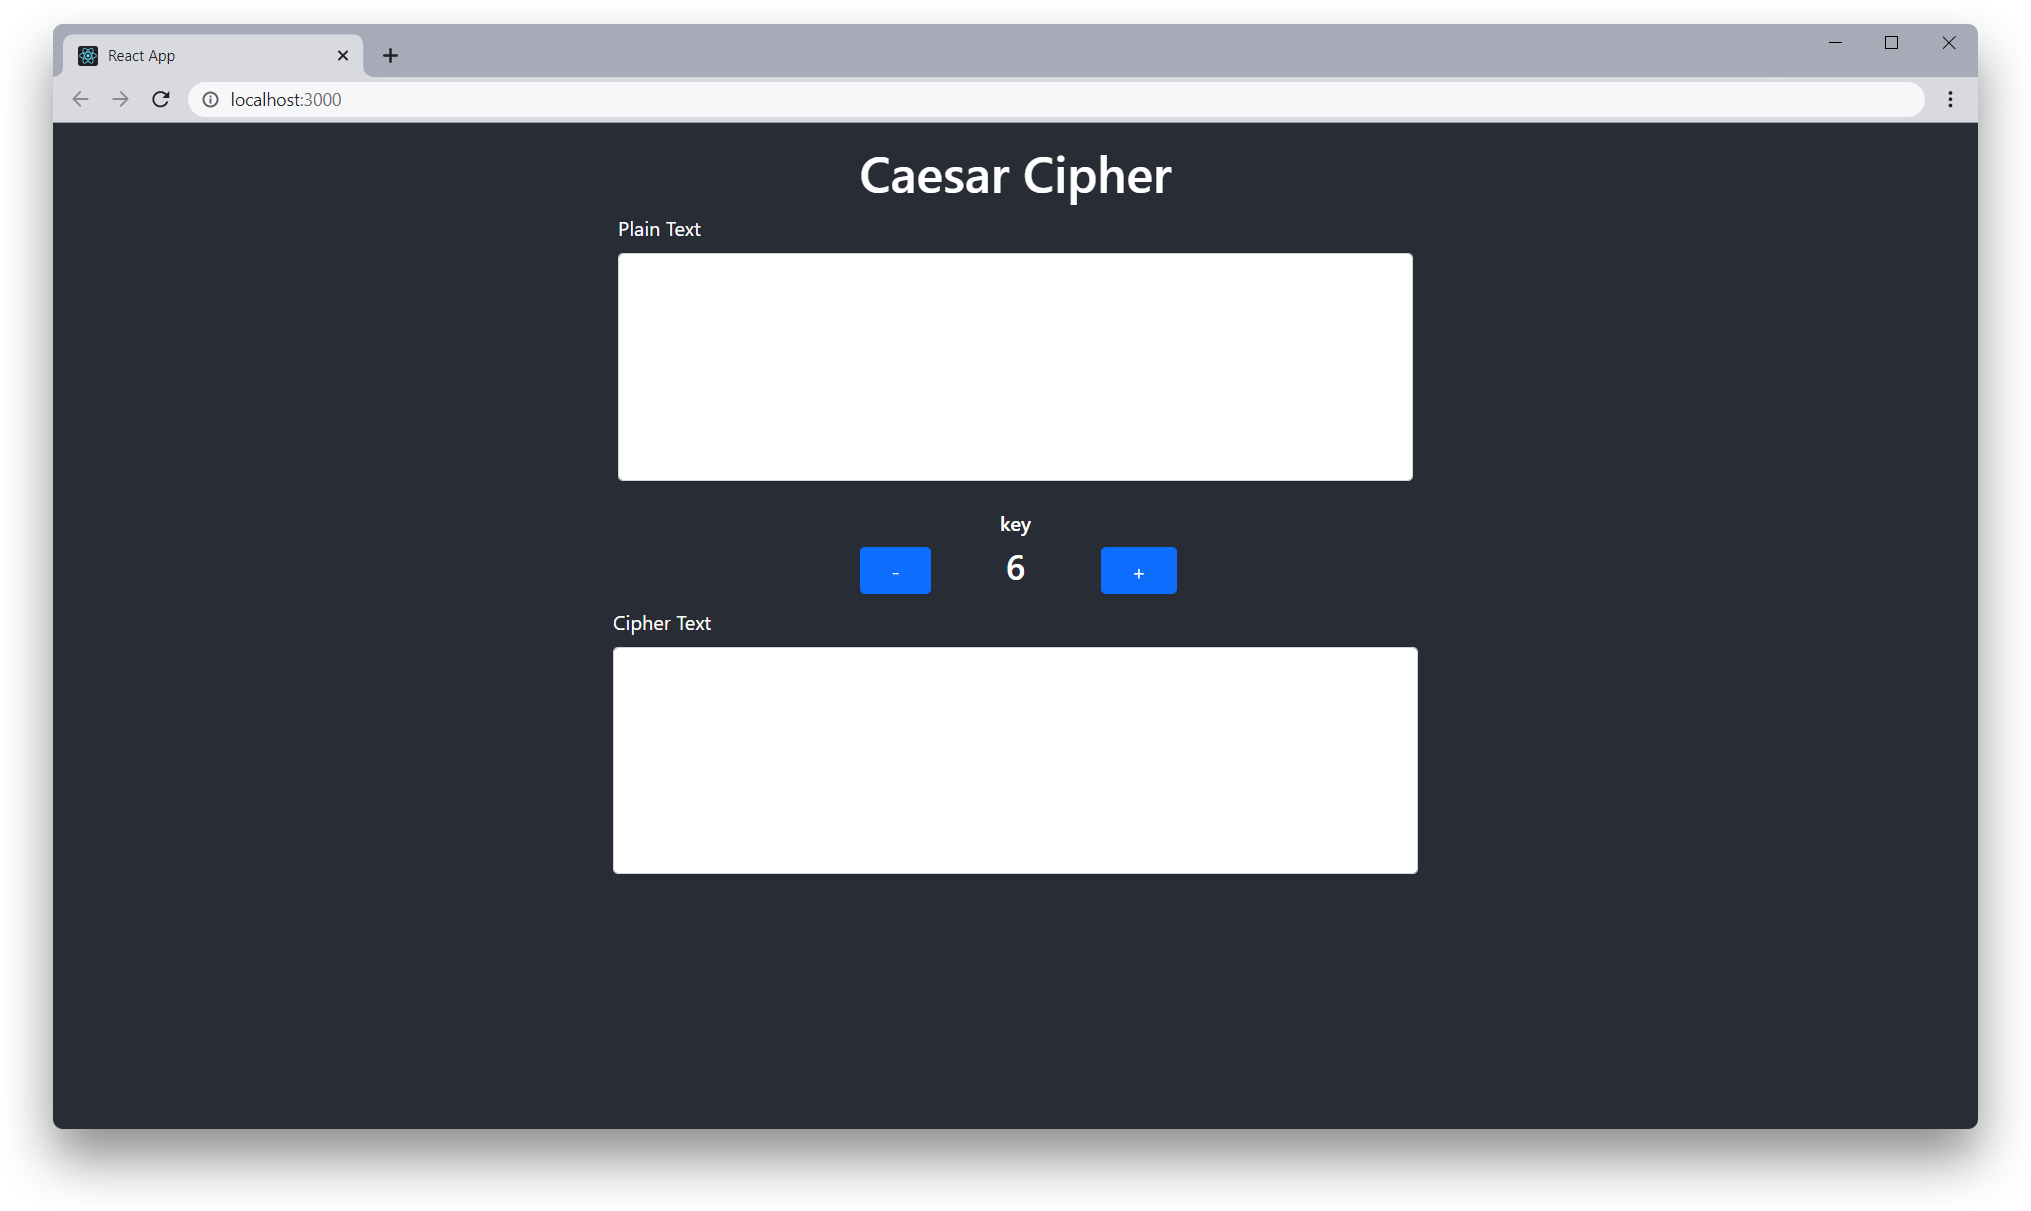
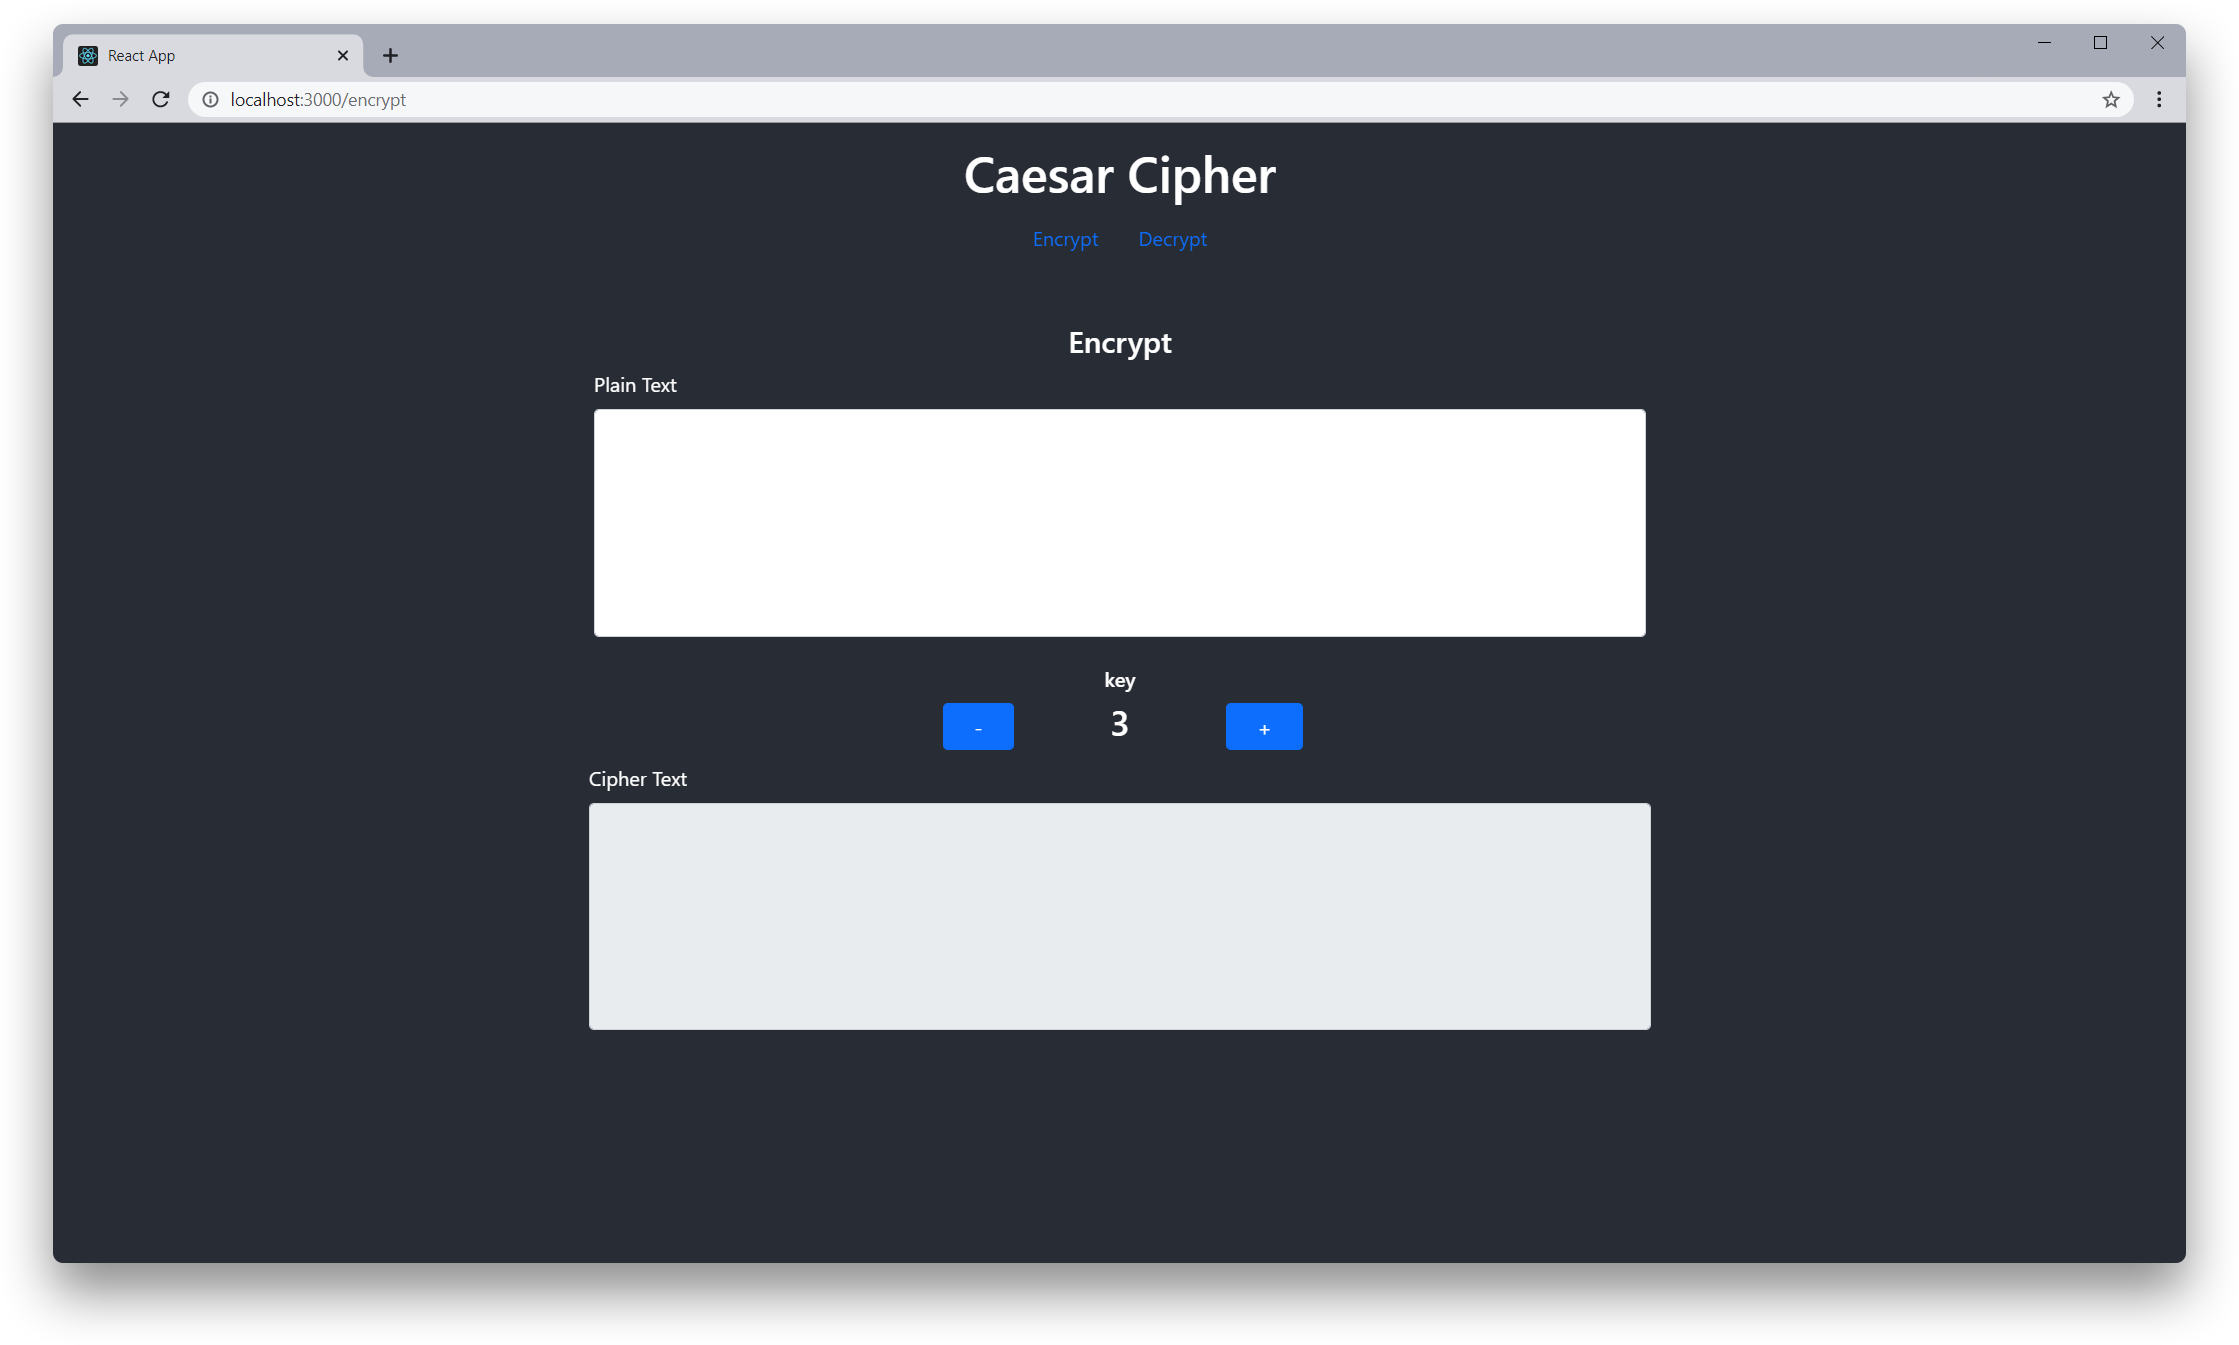
Added headers and added margin top and bottom of a component

Changed region(s): [[0.0, 0.0, 0.9926, 0.7638], [0.0, 0.9166, 0.9926, 0.9472]]

diff --git a/src/App.js b/src/App.js
@@ -118,7 +118,7 @@ function App() {
       handlePlainText();
     }, [plainText]);
     return (
-      <>
+      <div className="text-white my-5">
         <h4 className="text-center">Encrypt</h4>
         <section className="row">
           <div className="col-6 mx-auto">
@@ -165,7 +165,7 @@ function App() {
             <textarea className="form-control" id="cypherText" value={cipherText} rows="7" readOnly></textarea>
           </div>
         </section>
-      </>
+      </div>
     );
   };
 
@@ -196,7 +196,8 @@ function App() {
     }, [cipherText]);
 
     return (
-      <>
+      <div className="text-white my-5">
+        <h4 className="text-center">Decrypt</h4>
         <section className="row">
           <div className="col-6 mx-auto">
             <label htmlFor="plainText" className="form-label">
@@ -241,7 +242,7 @@ function App() {
             <textarea className="form-control" id="cypherText" value={plainText} rows="7" readOnly></textarea>
           </div>
         </section>
-      </>
+      </div>
     );
   };
 
@@ -253,13 +254,27 @@ function App() {
             <h1>Caesar Cipher</h1>
           </div>
         </section>
+        <nav className="nav justify-content-center">
+          <Link className="nav-link" to="/encrypt">
+            Encrypt
+          </Link>
+          <Link className="nav-link" to="/decrypt">
+            Decrypt
+          </Link>
+        </nav>
         {/* <Encrypt handleShiftPlus={handleShiftPlus} handleShiftMinus={handleShiftMinus} /> */}
         {/* <Decrypt handleShiftPlus={handleShiftPlus} handleShiftMinus={handleShiftMinus} /> */}
       </header>
 
       <Switch>
-        <Route path="/encrypt" component={Encrypt} />
-        <Route path="/decrypt" component={Decrypt} />
+        <Route
+          path="/encrypt"
+          render={() => <Encrypt handleShiftPlus={handleShiftPlus} handleShiftMinus={handleShiftMinus} />}
+        />
+        <Route
+          path="/decrypt"
+          render={() => <Decrypt handleShiftPlus={handleShiftPlus} handleShiftMinus={handleShiftMinus} />}
+        />
       </Switch>
     </Router>
   );

diff --git a/src/App.css b/src/App.css
@@ -1,3 +1,4 @@
 body {
   background-color: #282c34 !important;
+  overflow: hidden; /* Hide scrollbars */
 }
